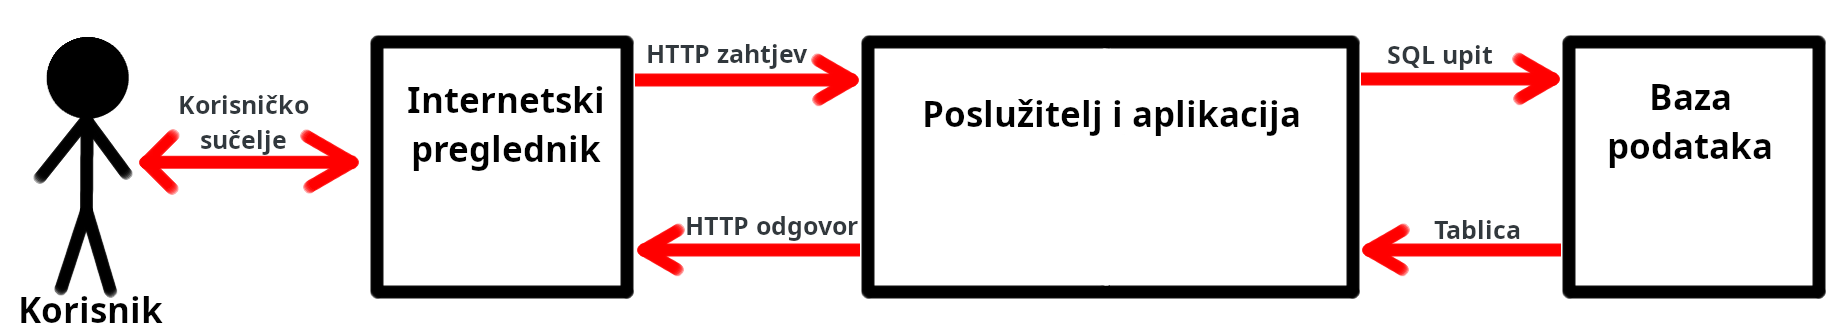
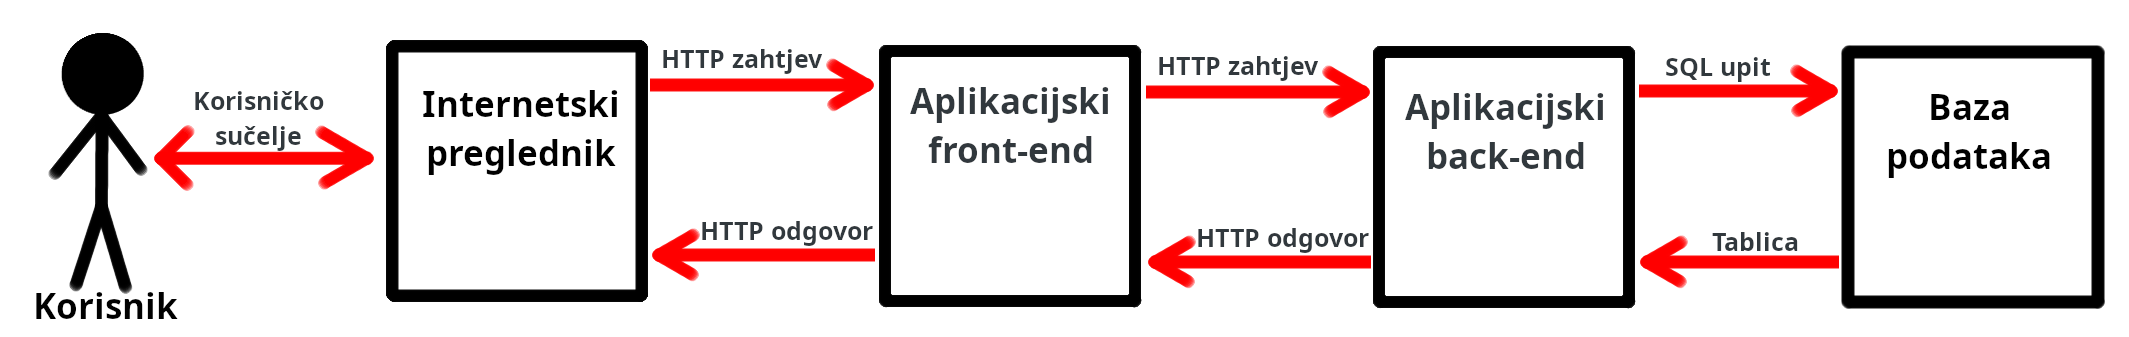
Popravio skicu arhitekture

diff --git a/Dokumentacija/Arhitektura.tex b/Dokumentacija/Arhitektura.tex
@@ -24,7 +24,7 @@
 				\linebreak
 				Baza podataka može se nalaziti na istom računalu kao i poslužitelj i aplikacija ili različitom, no komunikacija se uvijeko odvija na isti način, preko preddefiniranih vrata na transportnom sloju i korištenjem odgovarajućeg protokola.
 				\begin{figure}[H]
-					\includegraphics[scale=1]{slike/skica_arhitekture.png}
+					\includegraphics[scale=0.85]{slike/skica_arhitekture.png}
 					\centering
 					\caption{Arhitektura sustava}
 					\label{fig:arhitektura_sustava}
